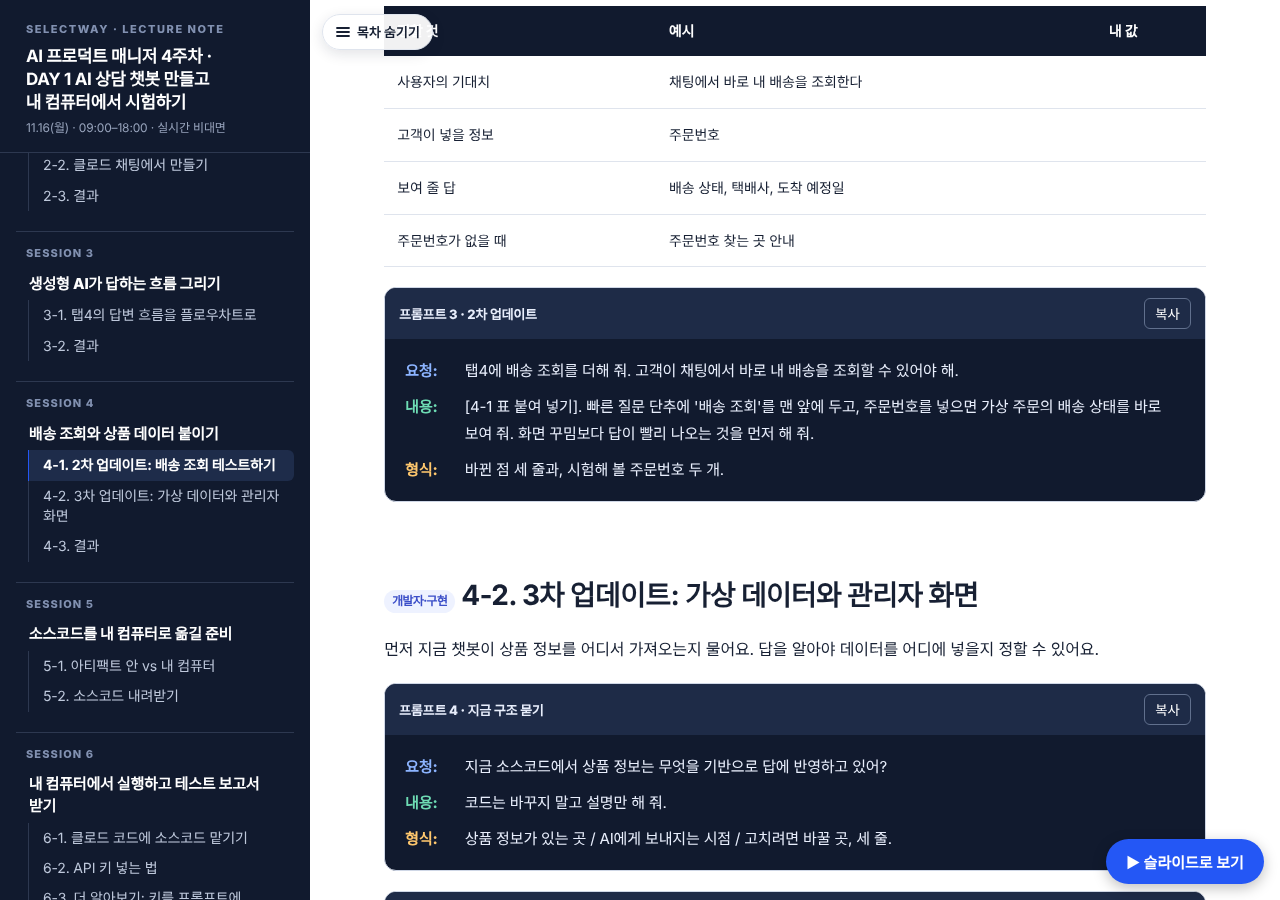
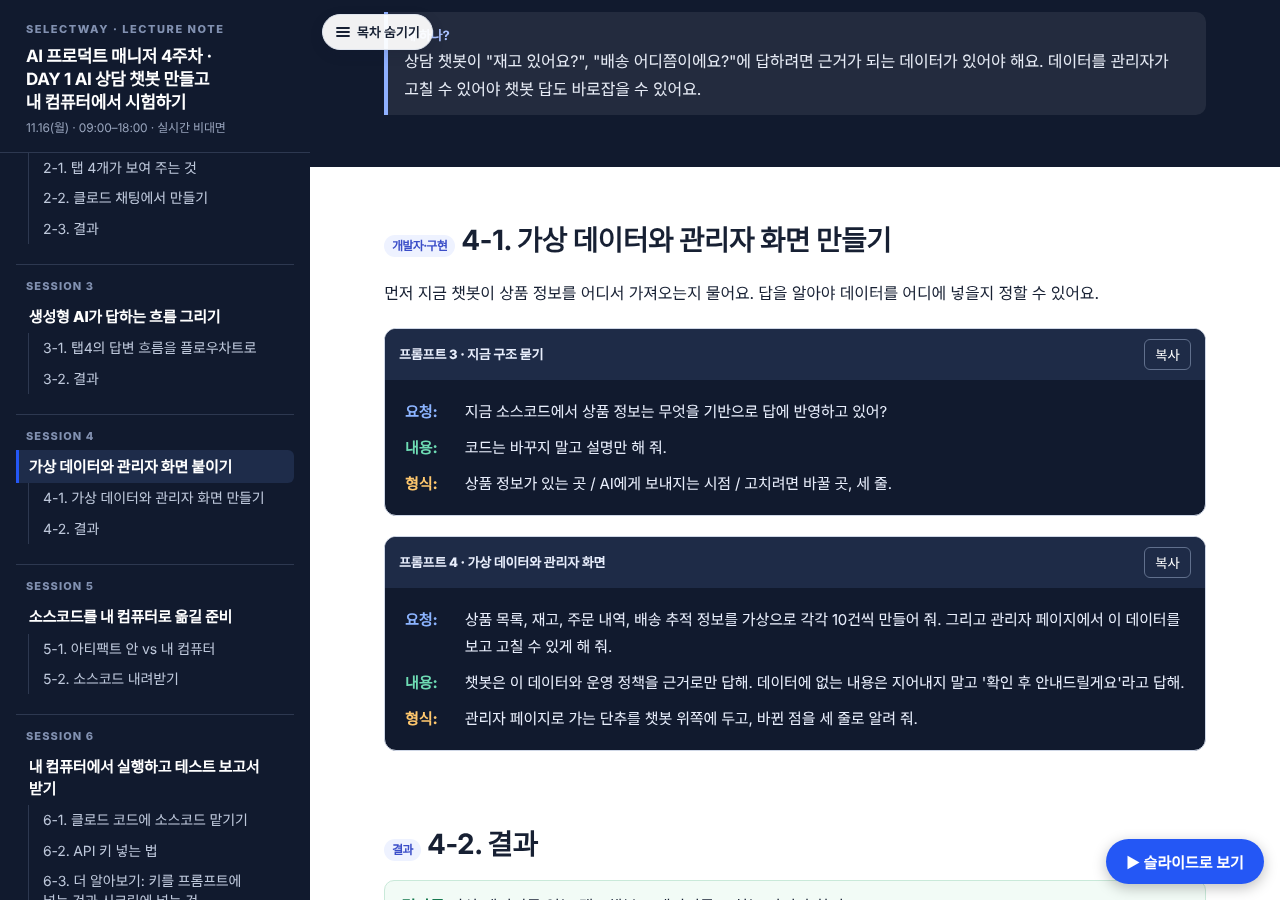
4주차 DAY1: 4-1(2차 업데이트·배송 조회 테스트) 삭제, 번호 정리, 수정 이력에 미승인 사유 기록
Claude-Session: https://claude.ai/code/session_01C4uqyEJDMMad4kDgLNX9Dk

diff --git a/261116-ai-pm-week4/d1-claude-code-chatbot.html b/261116-ai-pm-week4/d1-claude-code-chatbot.html
@@ -300,7 +300,7 @@ aside nav a.active{border-left-color:var(--blue)}
 <div class="grp"><div class="grp-label">SESSION 1</div><a class="l2" href="#s1">지난주 복습: 클로드가 일하는 곳</a><a class="l3" href="#s1-1">1-1. 클로드가 손을 쓰는 세 곳</a><a class="l3" href="#s1-2">1-2. 커넥터로 잇는 내 업무 도구</a></div>
 <div class="grp"><div class="grp-label">SESSION 2</div><a class="l2" href="#s2">AI 상담 챗봇 탭 4개 만들기</a><a class="l3" href="#s2-1">2-1. 탭 4개가 보여 주는 것</a><a class="l3" href="#s2-2">2-2. 클로드 채팅에서 만들기</a><a class="l3" href="#s2-3">2-3. 결과</a></div>
 <div class="grp"><div class="grp-label">SESSION 3</div><a class="l2" href="#s3">생성형 AI가 답하는 흐름 그리기</a><a class="l3" href="#s3-1">3-1. 탭4의 답변 흐름을 플로우차트로</a><a class="l3" href="#s3-2">3-2. 결과</a></div>
-<div class="grp"><div class="grp-label">SESSION 4</div><a class="l2" href="#s4">배송 조회와 상품 데이터 붙이기</a><a class="l3" href="#s4-1">4-1. 2차 업데이트: 배송 조회 테스트하기</a><a class="l3" href="#s4-2">4-2. 3차 업데이트: 가상 데이터와 관리자 화면</a><a class="l3" href="#s4-3">4-3. 결과</a></div>
+<div class="grp"><div class="grp-label">SESSION 4</div><a class="l2" href="#s4">가상 데이터와 관리자 화면 붙이기</a><a class="l3" href="#s4-1">4-1. 가상 데이터와 관리자 화면 만들기</a><a class="l3" href="#s4-2">4-2. 결과</a></div>
 <div class="grp"><div class="grp-label">SESSION 5</div><a class="l2" href="#s5">소스코드를 내 컴퓨터로 옮길 준비</a><a class="l3" href="#s5-1">5-1. 아티팩트 안 vs 내 컴퓨터</a><a class="l3" href="#s5-2">5-2. 소스코드 내려받기</a></div>
 <div class="grp"><div class="grp-label">SESSION 6</div><a class="l2" href="#s6">내 컴퓨터에서 실행하고 테스트 보고서 받기</a><a class="l3" href="#s6-1">6-1. 클로드 코드에 소스코드 맡기기</a><a class="l3" href="#s6-2">6-2. API 키 넣는 법</a><a class="l3" href="#s6-3">6-3. 더 알아보기: 키를 프롬프트에 넣는 것과 시크릿에 넣는 것</a><a class="l3" href="#s6-4">6-4. 터미널 명령어 확인하고 실행하기</a><a class="l3" href="#s6-5">6-5. 더 알아보기: localhost와 127.0.0.1은 같은가요?</a><a class="l3" href="#s6-6">6-6. 데이터 0건에서 일부러 오류 내 보기</a><a class="l3" href="#s6-7">6-7. 내 눈으로 확인한 가상 데이터 정하기</a><a class="l3" href="#s6-8">6-8. 관리자 화면에서 넣고, 같은 질문 다시 보내기</a><a class="l3" href="#s6-9">6-9. 테스트 보고서 받기</a><a class="l3" href="#s6-10">6-10. 결과 보고서 확인하기</a><a class="l3" href="#s6-11">6-11. 결과</a></div>
 <div class="grp"><div class="grp-label">SESSION 7</div><a class="l2" href="#s7">시험하고 고치기: 프롬프트 엔지니어링</a><a class="l3" href="#s7-1">7-1. 시험 질문 5가지 정하기</a><a class="l3" href="#s7-2">7-2. 고칠 곳 하나만 고르기</a><a class="l3" href="#s7-3">7-3. 결과</a></div>
@@ -347,7 +347,7 @@ aside nav a.active{border-left-color:var(--blue)}
 <tr><td>09:00–09:20</td><td>SESSION 1</td><td><a href="#s1">지난주 복습: 클로드가 일하는 곳</a></td></tr>
 <tr><td>09:20–10:00</td><td>SESSION 2</td><td><a href="#s2">AI 상담 챗봇 탭 4개 만들기</a></td></tr>
 <tr><td>10:00–10:30</td><td>SESSION 3</td><td><a href="#s3">생성형 AI가 답하는 흐름 그리기</a></td></tr>
-<tr><td>10:30–11:30</td><td>SESSION 4</td><td><a href="#s4">배송 조회와 상품 데이터 붙이기</a></td></tr>
+<tr><td>10:30–11:30</td><td>SESSION 4</td><td><a href="#s4">가상 데이터와 관리자 화면 붙이기</a></td></tr>
 <tr><td>11:30–12:00</td><td>SESSION 5</td><td><a href="#s5">소스코드를 내 컴퓨터로 옮길 준비</a></td></tr>
 <tr><td>12:00–13:00</td><td>점심</td><td></td></tr>
 <tr><td>13:00–14:50</td><td>SESSION 6</td><td><a href="#s6">내 컴퓨터에서 실행하고 테스트 보고서 받기</a></td></tr>
@@ -408,7 +408,7 @@ aside nav a.active{border-left-color:var(--blue)}
 <ul>
 <li>위쪽 탭을 눌러 탭1·탭2·탭3을 바꿔 가며 같은 질문을 보내 봐요.</li>
 <li>탭2와 탭3은 클로드에 로그인한 상태로 열어요. 처음 보낼 때 뜨는 허용 창은 2-2의 예시 화면과 같아요.</li>
-<li>탭3의 [⚙ 관리]를 누르면 챗봇이 읽는 운영 정책·상품·주문 자료가 보여요. 4-2에서 만들 관리자 화면이 이런 모양이에요. 예시에서는 자료를 보기만 할 수 있어요.</li>
+<li>탭3의 [⚙ 관리]를 누르면 챗봇이 읽는 운영 정책·상품·주문 자료가 보여요. 4-1에서 만들 관리자 화면이 이런 모양이에요. 예시에서는 자료를 보기만 할 수 있어요.</li>
 <li>탭4는 예시에 없어요. 2-2에서 내 서비스 주제로 직접 만들어요.</li>
 </ul>
 </div>
@@ -459,33 +459,20 @@ aside nav a.active{border-left-color:var(--blue)}
 </section>
 
 <section class="section session" id="s4">
-<div class="session-head"><div class="eyebrow">SESSION 4 · 10:30–11:30</div><h2>배송 조회와 상품 데이터 붙이기</h2><p>실제 쇼핑몰 1:1 상담 화면을 참고해 탭4를 두 번 더 고쳐요. 2차에는 배송 조회를 빠르게, 3차에는 가상 상품·주문 데이터를 붙이고 관리자 화면에서 고칠 수 있게 해요.</p>
-<div class="why-box"><b>왜 하나?</b>상담 챗봇에 고객이 바라는 것은 예쁜 화면보다 "내 배송이 어디쯤인지" 바로 아는 거예요. 사용자의 기대치를 먼저 정하면 무엇을 고칠지 분명해져요.</div></div>
+<div class="session-head"><div class="eyebrow">SESSION 4 · 10:30–11:30</div><h2>가상 데이터와 관리자 화면 붙이기</h2><p>탭4 챗봇에 가상 상품·주문 데이터를 붙이고, 관리자 화면에서 그 데이터를 보고 고칠 수 있게 해요.</p>
+<div class="why-box"><b>왜 하나?</b>상담 챗봇이 "재고 있어요?", "배송 어디쯤이에요?"에 답하려면 근거가 되는 데이터가 있어야 해요. 데이터를 관리자가 고칠 수 있어야 챗봇 답도 바로잡을 수 있어요.</div></div>
 
-<div class="topic" id="s4-1"><h3><span class="stage plan">기획자</span>4-1. 2차 업데이트: 배송 조회 테스트하기</h3>
-<p>참고할 화면: <a href="https://m.pet-friends.co.kr/main/tab/2" target="_blank" rel="noopener">펫프렌즈 모바일</a>의 고객 상담 흐름. 화면 생김새를 따라 하기보다, 고객이 원하는 답을 얼마나 빨리 받는지를 봐요.</p>
-<div class="table-wrap tpl"><table><tr><th>정할 것</th><th>예시</th><th>내 값</th></tr>
-<tr><td>사용자의 기대치</td><td>채팅에서 바로 내 배송을 조회한다</td><td></td></tr>
-<tr><td>고객이 넣을 정보</td><td>주문번호</td><td></td></tr>
-<tr><td>보여 줄 답</td><td>배송 상태, 택배사, 도착 예정일</td><td></td></tr>
-<tr><td>주문번호가 없을 때</td><td>주문번호 찾는 곳 안내</td><td></td></tr>
-</table></div>
-<div class="copybox"><div class="copyhead"><span>프롬프트 3 · 2차 업데이트</span><button type="button">복사</button></div><pre>요청: 탭4에 배송 조회를 더해 줘. 고객이 채팅에서 바로 내 배송을 조회할 수 있어야 해.
-내용: [4-1 표 붙여 넣기]. 빠른 질문 단추에 '배송 조회'를 맨 앞에 두고, 주문번호를 넣으면 가상 주문의 배송 상태를 바로 보여 줘. 화면 꾸밈보다 답이 빨리 나오는 것을 먼저 해 줘.
-형식: 바뀐 점 세 줄과, 시험해 볼 주문번호 두 개.</pre></div>
-</div>
-
-<div class="topic" id="s4-2"><h3><span class="stage dev">개발자·구현</span>4-2. 3차 업데이트: 가상 데이터와 관리자 화면</h3>
+<div class="topic" id="s4-1"><h3><span class="stage dev">개발자·구현</span>4-1. 가상 데이터와 관리자 화면 만들기</h3>
 <p>먼저 지금 챗봇이 상품 정보를 어디서 가져오는지 물어요. 답을 알아야 데이터를 어디에 넣을지 정할 수 있어요.</p>
-<div class="copybox"><div class="copyhead"><span>프롬프트 4 · 지금 구조 묻기</span><button type="button">복사</button></div><pre>요청: 지금 소스코드에서 상품 정보는 무엇을 기반으로 답에 반영하고 있어?
+<div class="copybox"><div class="copyhead"><span>프롬프트 3 · 지금 구조 묻기</span><button type="button">복사</button></div><pre>요청: 지금 소스코드에서 상품 정보는 무엇을 기반으로 답에 반영하고 있어?
 내용: 코드는 바꾸지 말고 설명만 해 줘.
-형식: 상품 정보가 있는 곳 / AI에게 보내지는 시점 / 고치려면 바꿀 곳, 세 줄.</pre></div><div class="copybox"><div class="copyhead"><span>프롬프트 5 · 3차 업데이트</span><button type="button">복사</button></div><pre>요청: 상품 목록, 재고, 주문 내역, 배송 추적 정보를 가상으로 각각 10건씩 만들어 줘. 그리고 관리자 페이지에서 이 데이터를 보고 고칠 수 있게 해 줘.
+형식: 상품 정보가 있는 곳 / AI에게 보내지는 시점 / 고치려면 바꿀 곳, 세 줄.</pre></div><div class="copybox"><div class="copyhead"><span>프롬프트 4 · 가상 데이터와 관리자 화면</span><button type="button">복사</button></div><pre>요청: 상품 목록, 재고, 주문 내역, 배송 추적 정보를 가상으로 각각 10건씩 만들어 줘. 그리고 관리자 페이지에서 이 데이터를 보고 고칠 수 있게 해 줘.
 내용: 챗봇은 이 데이터와 운영 정책을 근거로만 답해. 데이터에 없는 내용은 지어내지 말고 '확인 후 안내드릴게요'라고 답해.
 형식: 관리자 페이지로 가는 단추를 챗봇 위쪽에 두고, 바뀐 점을 세 줄로 알려 줘.</pre></div>
 </div>
 
-<div class="topic" id="s4-3"><h3><span class="stage">결과</span>4-3. 결과</h3>
-<div class="result-box"><b>결과물</b> 배송 조회가 되는 탭4 챗봇 + 가상 데이터를 고치는 관리자 화면</div>
+<div class="topic" id="s4-2"><h3><span class="stage">결과</span>4-2. 결과</h3>
+<div class="result-box"><b>결과물</b> 가상 데이터를 읽는 탭4 챗봇 + 데이터를 고치는 관리자 화면</div>
 <p class="ok-line"><b>이렇게 보이면 성공</b>관리자 화면에서 주문 하나의 배송 상태를 바꾸면, 챗봇의 배송 조회 답도 바뀐다</p>
 </div>
 </section>
@@ -504,7 +491,7 @@ aside nav a.active{border-left-color:var(--blue)}
 </div>
 
 <div class="topic" id="s5-2"><h3><span class="stage">실습</span>5-2. 소스코드 내려받기</h3>
-<div class="copybox"><div class="copyhead"><span>프롬프트 6 · 클로드 채팅에서</span><button type="button">복사</button></div><pre>요청: 지금 챗봇과 관리자 화면을 내 컴퓨터에서 실행할 수 있는 소스코드로 만들어 zip 파일로 줘.
+<div class="copybox"><div class="copyhead"><span>프롬프트 5 · 클로드 채팅에서</span><button type="button">복사</button></div><pre>요청: 지금 챗봇과 관리자 화면을 내 컴퓨터에서 실행할 수 있는 소스코드로 만들어 zip 파일로 줘.
 내용: 아티팩트의 내장 AI 대신 Anthropic API 키로 Claude를 부르게 해 줘. 키는 .env 파일에 넣게 하고, .env는 .gitignore에 넣어 줘. 가상 데이터는 파일로 저장해 관리자 화면에서 고칠 수 있게 해 줘.
 형식: zip 파일 하나와, 실행 순서를 README.md에 적어 줘.</pre></div>
 <ol class="do-steps">
@@ -524,7 +511,7 @@ aside nav a.active{border-left-color:var(--blue)}
 <li><p>환경은 내 컴퓨터를 골라요. 데스크톱 앱에서는 '이 컴퓨터', 웹에서는 '로컬'로 보여요. 폴더는 오전에 만든 aipm-chatbot-test-1116을 골라요.</p></li>
 <li><p>zip 파일을 입력창에 끌어다 놓고 아래 프롬프트를 보내요.</p></li>
 </ol>
-<div class="copybox"><div class="copyhead"><span>프롬프트 7 · 클로드 코드 입력창에 붙여 넣으세요</span><button type="button">복사</button></div><pre>첨부한 소스코드를 압축 풀고, 현재 로컬 폴더에서 실행 가능한 챗봇으로 구현해 줘.
+<div class="copybox"><div class="copyhead"><span>프롬프트 6 · 클로드 코드 입력창에 붙여 넣으세요</span><button type="button">복사</button></div><pre>첨부한 소스코드를 압축 풀고, 현재 로컬 폴더에서 실행 가능한 챗봇으로 구현해 줘.
 내가 API 키는 .env 파일에 넣을 수 있게 해 줘.</pre></div><figure class="shot"><a href="images/d1_local_prompt.png" target="_blank" rel="noopener"><img style="width:520px;max-width:100%" alt="클로드 코드 화면. 시작 위치 이 컴퓨터 aipm-chatbot-test-1116, zip 파일 첨부와 프롬프트, 압축 풀고 구조 확인, 실행 가능하게 구성 + .env 설정, 실행 검증 할 일 목록" loading="lazy" src="images/d1_local_prompt.png"/></a><figcaption>프롬프트 입력 화면: 클로드 코드가 할 일을 세 단계로 나눠 진행해요 (2026-11-16 강사 화면)</figcaption></figure>
 </div>
 
@@ -631,7 +618,7 @@ aside nav a.active{border-left-color:var(--blue)}
 </div>
 
 <div class="topic" id="s6-9"><h3><span class="stage plan">기획자</span>6-9. 테스트 보고서 받기</h3>
-<div class="copybox"><div class="copyhead"><span>프롬프트 8 · 테스트 보고서 요청</span><button type="button">복사</button></div><pre>요청: 지금 실행 중인 챗봇과 관리자 화면을 테스트하고, 결과를 test-report.md로 정리해 줘.
+<div class="copybox"><div class="copyhead"><span>프롬프트 7 · 테스트 보고서 요청</span><button type="button">복사</button></div><pre>요청: 지금 실행 중인 챗봇과 관리자 화면을 테스트하고, 결과를 test-report.md로 정리해 줘.
 내용: ① 챗봇(localhost:3000)과 관리자(localhost:3000/admin) 화면이 열리는지 ② 빠른 질문 단추마다 답이 나오는지 ③ 상품·주문 데이터가 없을 때와 [6-7 표의 데이터]를 넣은 뒤, 같은 질문의 답이 어떻게 다른지 ④ 없는 주문번호를 물었을 때 ⑤ 쇼핑몰과 상관없는 질문 ⑥ 답에 고객에게 보이면 안 되는 내부 이름이나 규칙 문구가 섞이는지 ⑦ API 키가 없거나 틀렸을 때 안내가 나오는지. 보고서에 API 키 값은 절대 적지 마.
 형식: 표(번호 / 테스트 항목 / 넣은 값 / 기대 결과 / 실제 결과 / 통과 여부) + 발견한 문제와 고칠 순서 3개.</pre></div>
 </div>
@@ -676,7 +663,7 @@ aside nav a.active{border-left-color:var(--blue)}
 <tr><td>너무 길거나 말투가 달라요</td><td>시스템 프롬프트의 말투와 예시 답변(Few-shot)</td></tr>
 <tr><td>규칙을 바꾸라는 말에 넘어가요</td><td>시스템 프롬프트의 '지킬 규칙'</td></tr>
 </table></div>
-<div class="copybox"><div class="copyhead"><span>프롬프트 9 · 고칠 곳 한 군데만</span><button type="button">복사</button></div><pre>요청: [고칠 곳]을 고쳐 줘.
+<div class="copybox"><div class="copyhead"><span>프롬프트 8 · 고칠 곳 한 군데만</span><button type="button">복사</button></div><pre>요청: [고칠 곳]을 고쳐 줘.
 내용: "[보낸 질문]"에 "[받은 답]"이라고 답했어. 나는 "[기대하는 답]"을 원해. 이 문제만 고치고 다른 규칙은 바꾸지 마.
 형식: 바뀐 줄(diff)을 먼저 보여 주고, 승인하면 반영한 뒤 서버를 다시 켜 줘.</pre></div>
 <p>고친 뒤에는 고친 질문만 보지 말고 <b>5가지 질문을 다시 모두</b> 보내요. 한 곳을 고치다 다른 답이 나빠지는 일이 자주 있어요.</p>
@@ -725,7 +712,6 @@ aside nav a.active{border-left-color:var(--blue)}
 <p><b>오늘의 규칙</b></p>
 <ul class="checklist">
 <li>챗봇은 정해진 답 / 제한 없는 AI / 규칙 있는 AI 중 무엇이 필요한지 기획자가 먼저 고른다</li>
-<li>화면보다 사용자의 기대치(예: 바로 배송 조회)를 먼저 정한다</li>
 <li>API 키는 .env나 시크릿에만 두고, 대화창·코드·깃헙에 두지 않는다</li>
 <li>데이터 0건에서 일부러 오류를 내 보고, 내가 확인한 데이터를 넣은 뒤 같은 질문으로 견준다</li>
 <li>"만들었어요" 대신 테스트 보고서를 받고, 실패 항목 하나는 직접 다시 확인한다</li>

diff --git a/261116-ai-pm-week4/index.html b/261116-ai-pm-week4/index.html
@@ -314,7 +314,7 @@ aside nav a.active{border-left-color:var(--blue)}
 <div class="notice">개강이 하루 늦어져 교과 17·18일차(11/23·11/24)가 5주차 초에 있어요.</div>
 <div class="table-wrap"><table>
 <tr><th>날짜</th><th>교과</th><th>내용 (작은 단계 순서)</th><th>오늘의 결과물</th></tr>
-<tr><td>11/16(월)</td><td>[기본] AI 서비스 개발 (12/18)</td><td><a href="./d1-claude-code-chatbot.html">DAY 1 · AI 상담 챗봇 만들고 내 컴퓨터에서 시험하기</a><br/>① 클로드가 일하는 곳(크롬·데스크톱·모바일)과 커넥터 ② 상담 챗봇 탭 4개(정해진 답 / 제한 없는 AI / 쇼핑몰 한정 / 내 주제) ③ 생성형 AI가 답하는 흐름 그리기 ④ 배송 조회·가상 상품 데이터·관리자 화면 ⑤ 내 컴퓨터로 옮겨 .env에 API 키 넣고 실행 ⑥ 테스트 보고서 → 프롬프트 엔지니어링 → RAG</td><td>AI 상담 챗봇 + 내 컴퓨터에서 도는 챗봇·관리자 + 테스트 보고서</td></tr>
+<tr><td>11/16(월)</td><td>[기본] AI 서비스 개발 (12/18)</td><td><a href="./d1-claude-code-chatbot.html">DAY 1 · AI 상담 챗봇 만들고 내 컴퓨터에서 시험하기</a><br/>① 클로드가 일하는 곳(크롬·데스크톱·모바일)과 커넥터 ② 상담 챗봇 탭 4개(정해진 답 / 제한 없는 AI / 쇼핑몰 한정 / 내 주제) ③ 생성형 AI가 답하는 흐름 그리기 ④ 가상 상품·주문 데이터와 관리자 화면 ⑤ 내 컴퓨터로 옮겨 .env에 API 키 넣고 실행 ⑥ 테스트 보고서 → 프롬프트 엔지니어링 → RAG</td><td>AI 상담 챗봇 + 내 컴퓨터에서 도는 챗봇·관리자 + 테스트 보고서</td></tr>
 <tr><td>11/17(화)</td><td>[기본] AI 서비스 개발 (13/18)</td><td><a href="./d2-api.html">DAY 2 · API 붙여 보며 개념 익히기</a><br/>① API란? 요청·응답·주소·키 ② 키 없이 쓰는 날씨 API(Open-Meteo) 붙이기 ③ 무료 키를 받는 연습용 API(예: OpenWeatherMap) 붙이고, 키를 코드 밖에 두는 법 ④ 공공데이터포털에서 API 1개 신청해 테스트하기 ⑤ 개발자 도구 네트워크 탭으로 요청·응답 보기</td><td>날씨를 붙인 채팅·페이지 + 공공데이터 API 테스트 기록 + API 용어표</td></tr>
 <tr><td>11/18(수)</td><td>[기본] AI 서비스 개발 (14/18)</td><td><a href="./d3-dev-env.html">DAY 3 · 라이브러리·프레임워크와 여러 개발 환경</a><br/>① 프레임워크와 라이브러리는 무엇이 다른가, 초보자가 쓸 만한 것(예: Tailwind) ② 구글 안티그래비티로 같은 페이지 띄우기 ③ VS Code + 클로드 코드 확장으로 같은 페이지 띄우기 ④ 클로드 코드·안티그래비티·VS Code 비교 ⑤ 리모트 컨트롤로 휴대폰에서 이어 하기</td><td>개발 환경 비교표 + 라이브러리로 다듬은 화면</td></tr>
 <tr><td>11/19(목)</td><td>[기본] AI 서비스 개발 (15/18)</td><td><a href="./d4-chrome-extension.html">DAY 4 · 크롬 확장 프로그램으로 내 일 자동화하기</a><br/>① 확장 프로그램은 어떻게 생겼나(설정 파일·팝업·권한) ② 자동화할 내 일 하나 고르기(기획자) ③ 클로드 코드로 만들기 ④ 크롬 개발자 모드로 내 크롬에 설치·시험 ⑤ 권한과 개인정보 점검</td><td>내 크롬에서 동작하는 확장 프로그램</td></tr>
